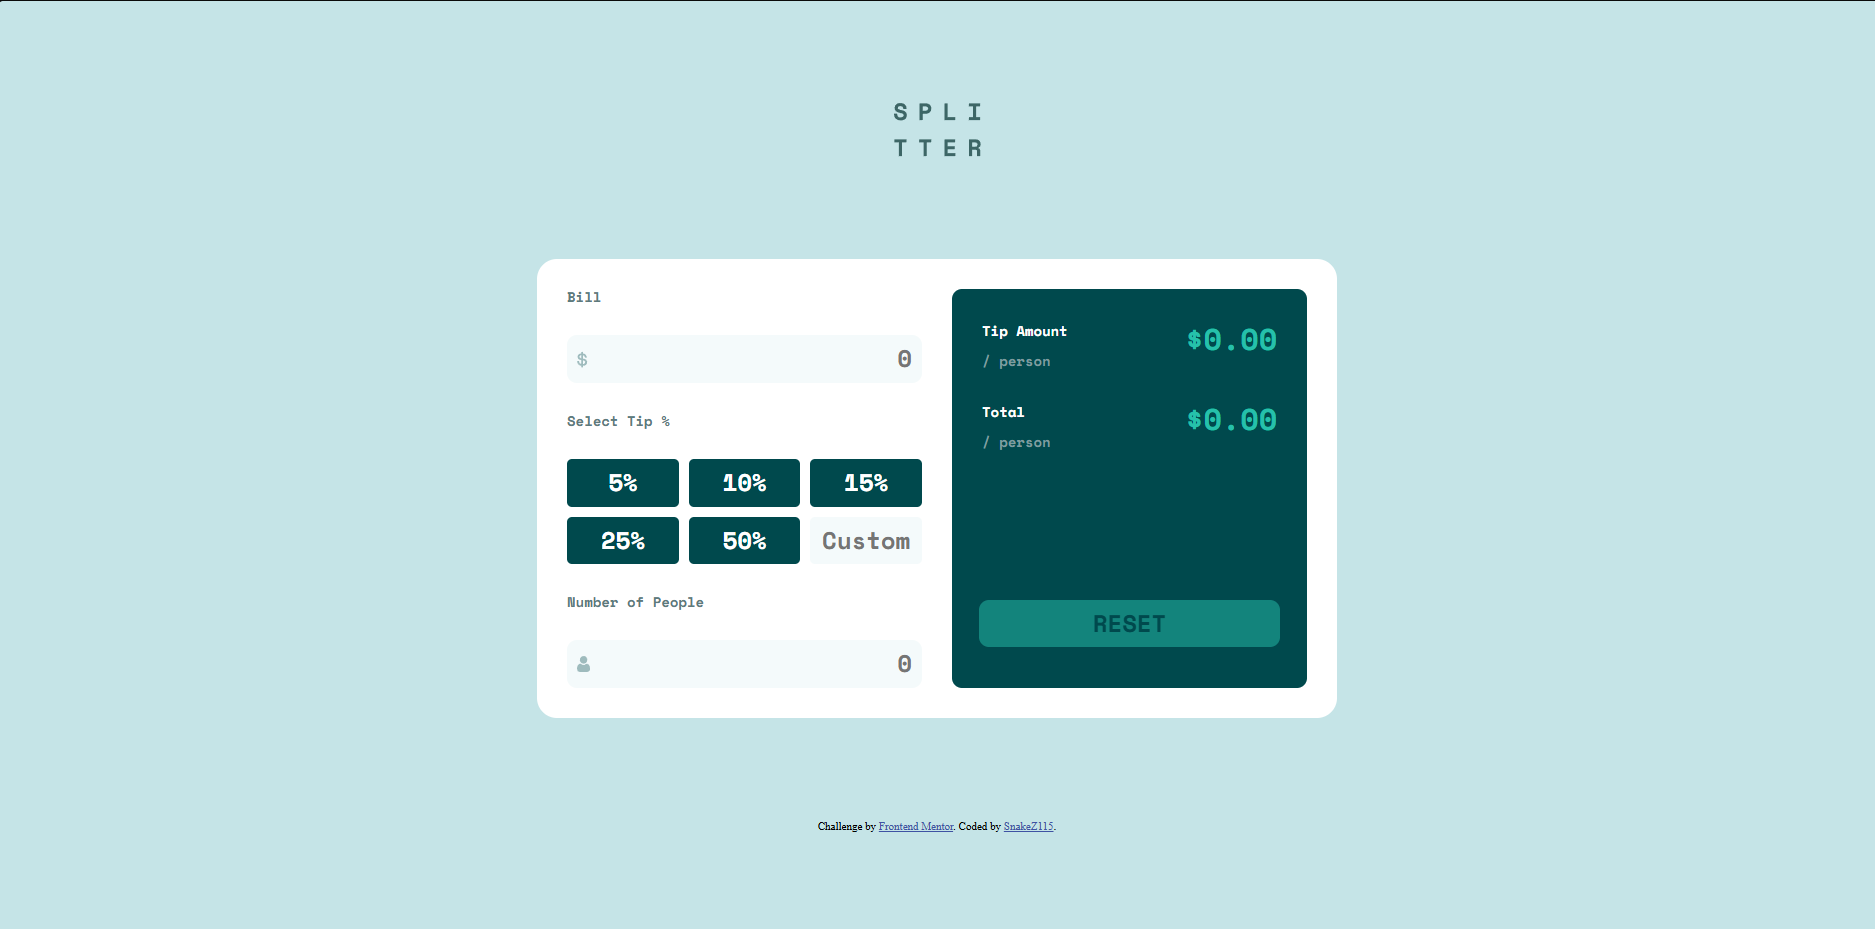
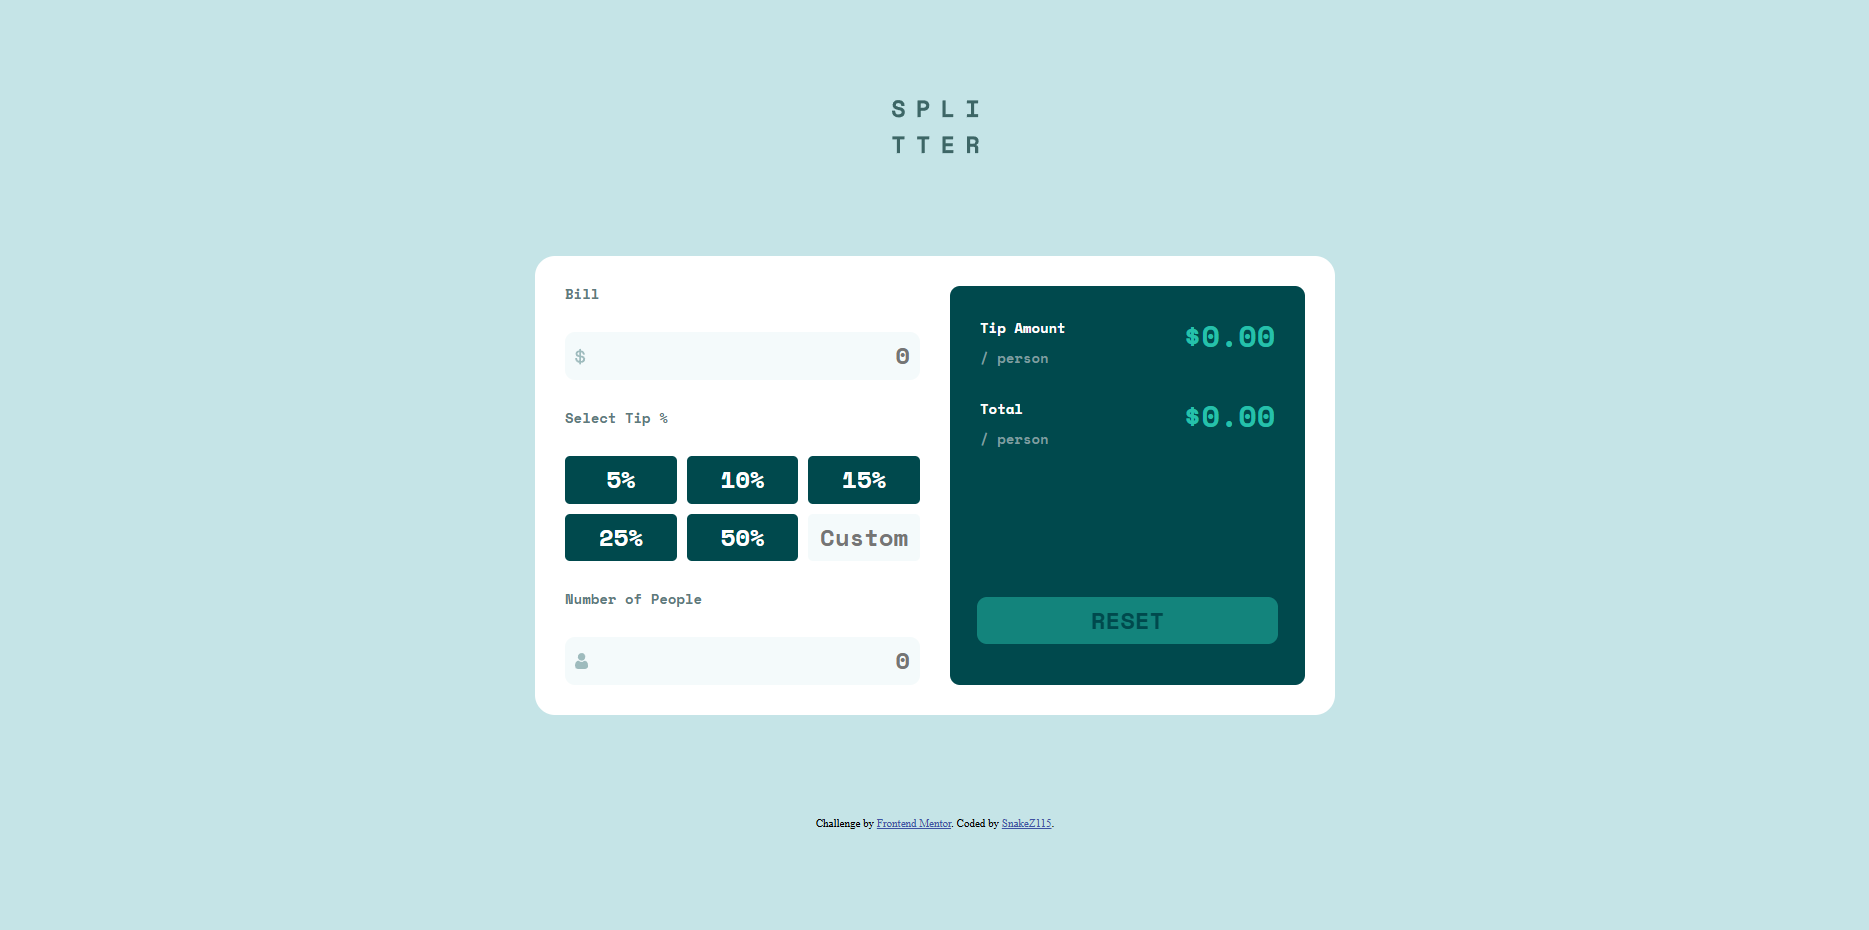
screenshot not showing in README

diff --git a/README.md b/README.md
@@ -27,7 +27,7 @@ Users should be able to:
 
 ### Screenshot
 
-![](./screenshot.png)
+![](./screenshot.PNG)
 
 ### Links
 
@@ -42,7 +42,7 @@ Users should be able to:
 - CSS custom properties
 - Flexbox
 - CSS Grid
-- Vanilla JavaScrip
+- Vanilla JavaScript
 - Desktop-first workflow
 
 ### What I learned
